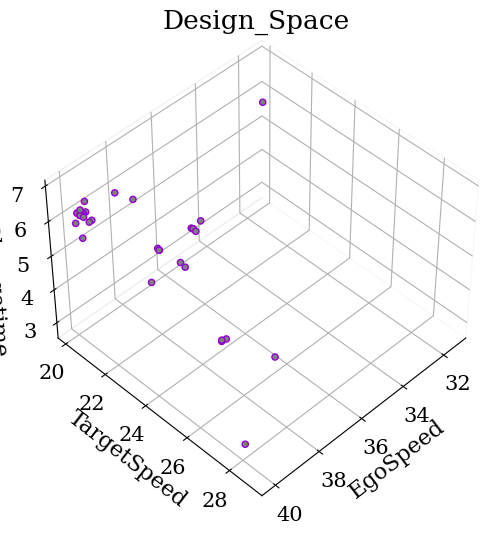
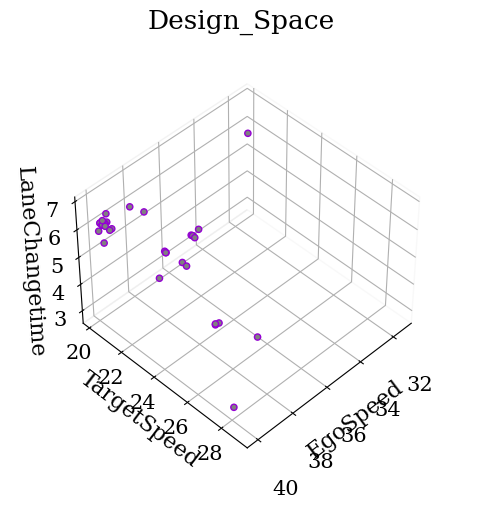
Debugging.

diff --git a/opensbt/visualization/visualization3d.py b/opensbt/visualization/visualization3d.py
@@ -109,6 +109,8 @@ def visualize_3d(population,
         Path(save_folder_design).mkdir(parents=True, exist_ok=True)   
         for angle in angles:
             plot_des = Scatter(title=title, labels = list(labels), angle=angle)
+            
+            print(f"[vis3d] ax: {plot_des.ax}")
             points_added = False
             if np.ma.count(X_plus, axis=0)[0] != 0:
                 plot_des.add(X_plus, facecolor=color_not_optimal, edgecolor=color_critical, s=markersize)
@@ -124,10 +126,18 @@ def visualize_3d(population,
                 print("added optimal and critical")
                 plot_des.add(X_plus_opt, facecolor=color_optimal, edgecolor=color_critical, s=markersize)
                 points_added = True
-            
             fig = plt.gcf()
+            ax = fig.gca()
+            print(f"[vis3d] type ax in vis3d: {type(ax)}")
+            print(f"[vis3d] {ax}")
+            import mpl_toolkits
+            # ax = mpl_toolkits.mplot3d.axes3d.Axes3D (ax)
+            # print([type(ax) for ax in fig.get_axes()])
+            # ax.dist = 2
+
             fig.tight_layout()
 
+            #ax.set_box_aspect(None, zoom=0.8)
             # Need this check, otherwise an exception is thrown, when there is nothing to be plotted
             if points_added:
                 if show:
